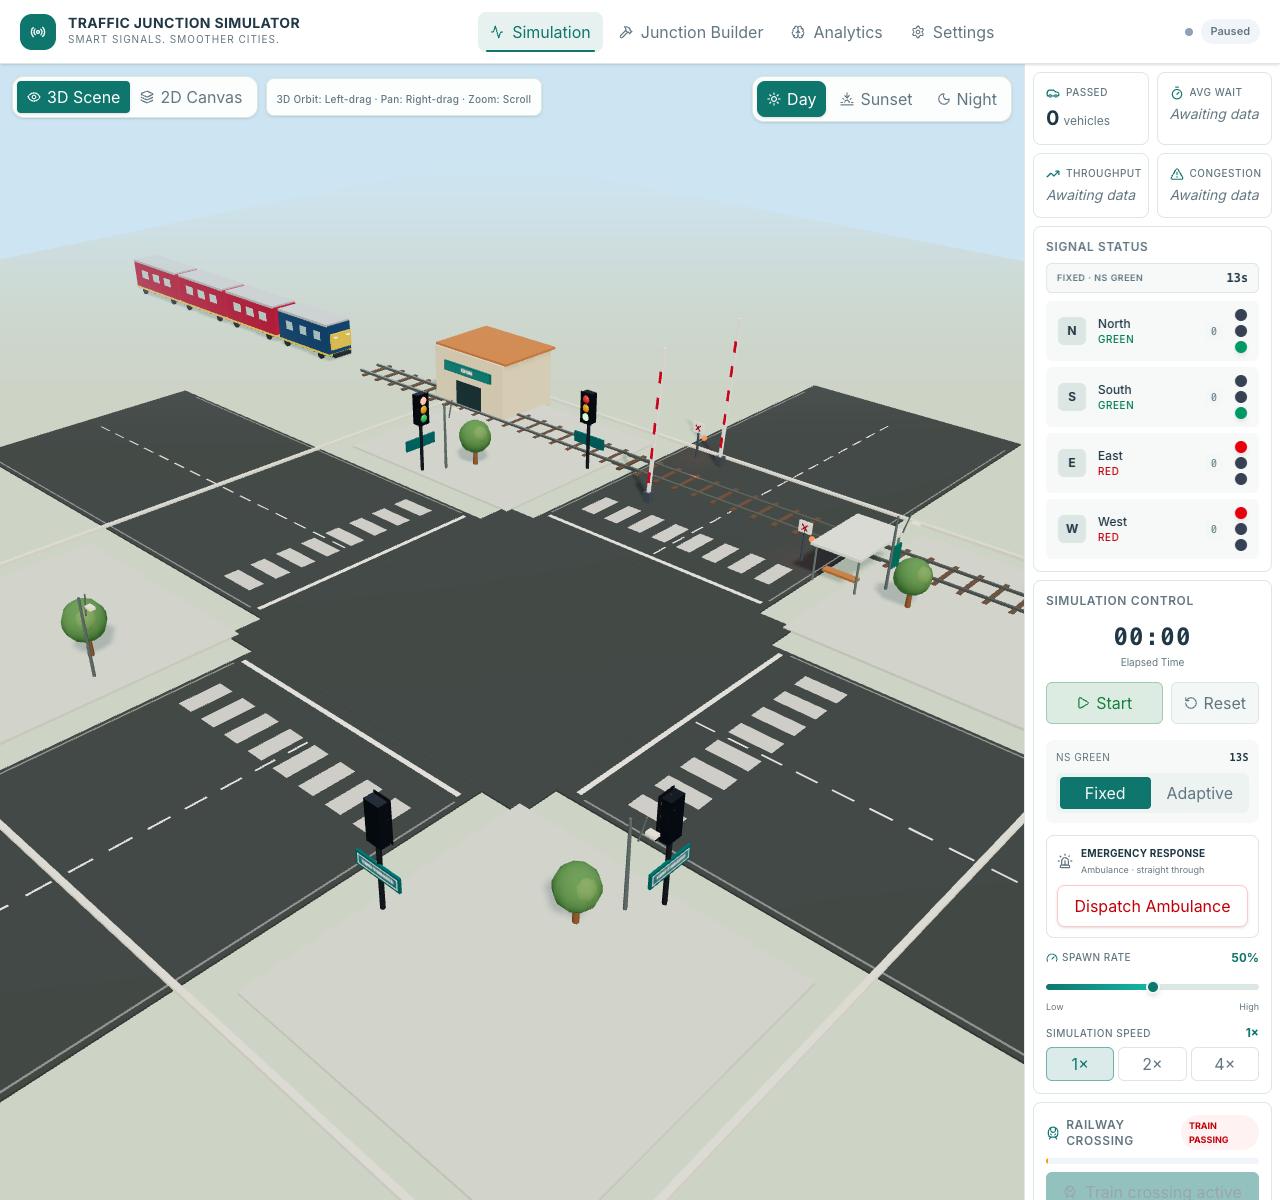
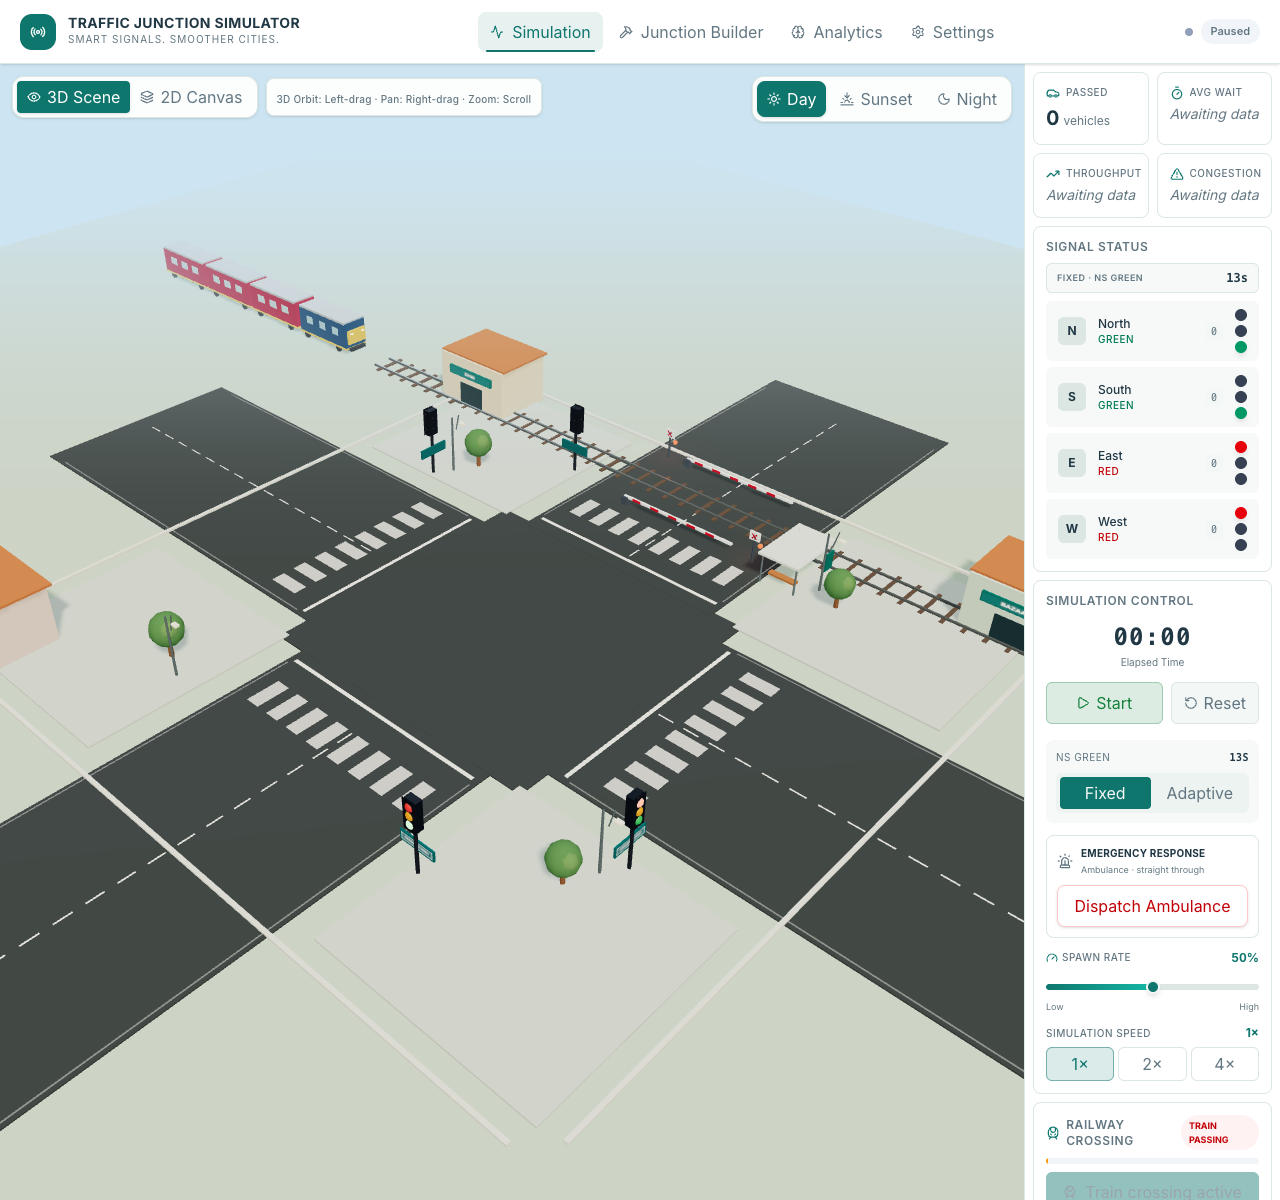
push

diff --git a/src/scene/RailwayCrossing.jsx b/src/scene/RailwayCrossing.jsx
@@ -121,7 +121,7 @@ export default function RailwayCrossing() {
       {[-4.15, 4.15].map((offset, index) => (
         <group key={`barrier-${offset}`} position={[-5.1, 0.72, RAIL_Z + offset]}>
           <mesh position={[0, -0.35, 0]}><boxGeometry args={[0.55, 0.75, 0.55]} /><meshStandardMaterial color="#4b5563" /></mesh>
-          <group ref={index === 0 ? northGate : southGate} rotation={[0, 0, Math.PI / 2]}>
+          <group ref={index === 0 ? northGate : southGate} rotation={[0, 0, closed ? 0 : Math.PI / 2]}>
             <mesh position={[5.1, 0, 0]} castShadow>
               <boxGeometry args={[10.5, 0.2, 0.22]} />
               <meshStandardMaterial color="#f3f4f6" />
